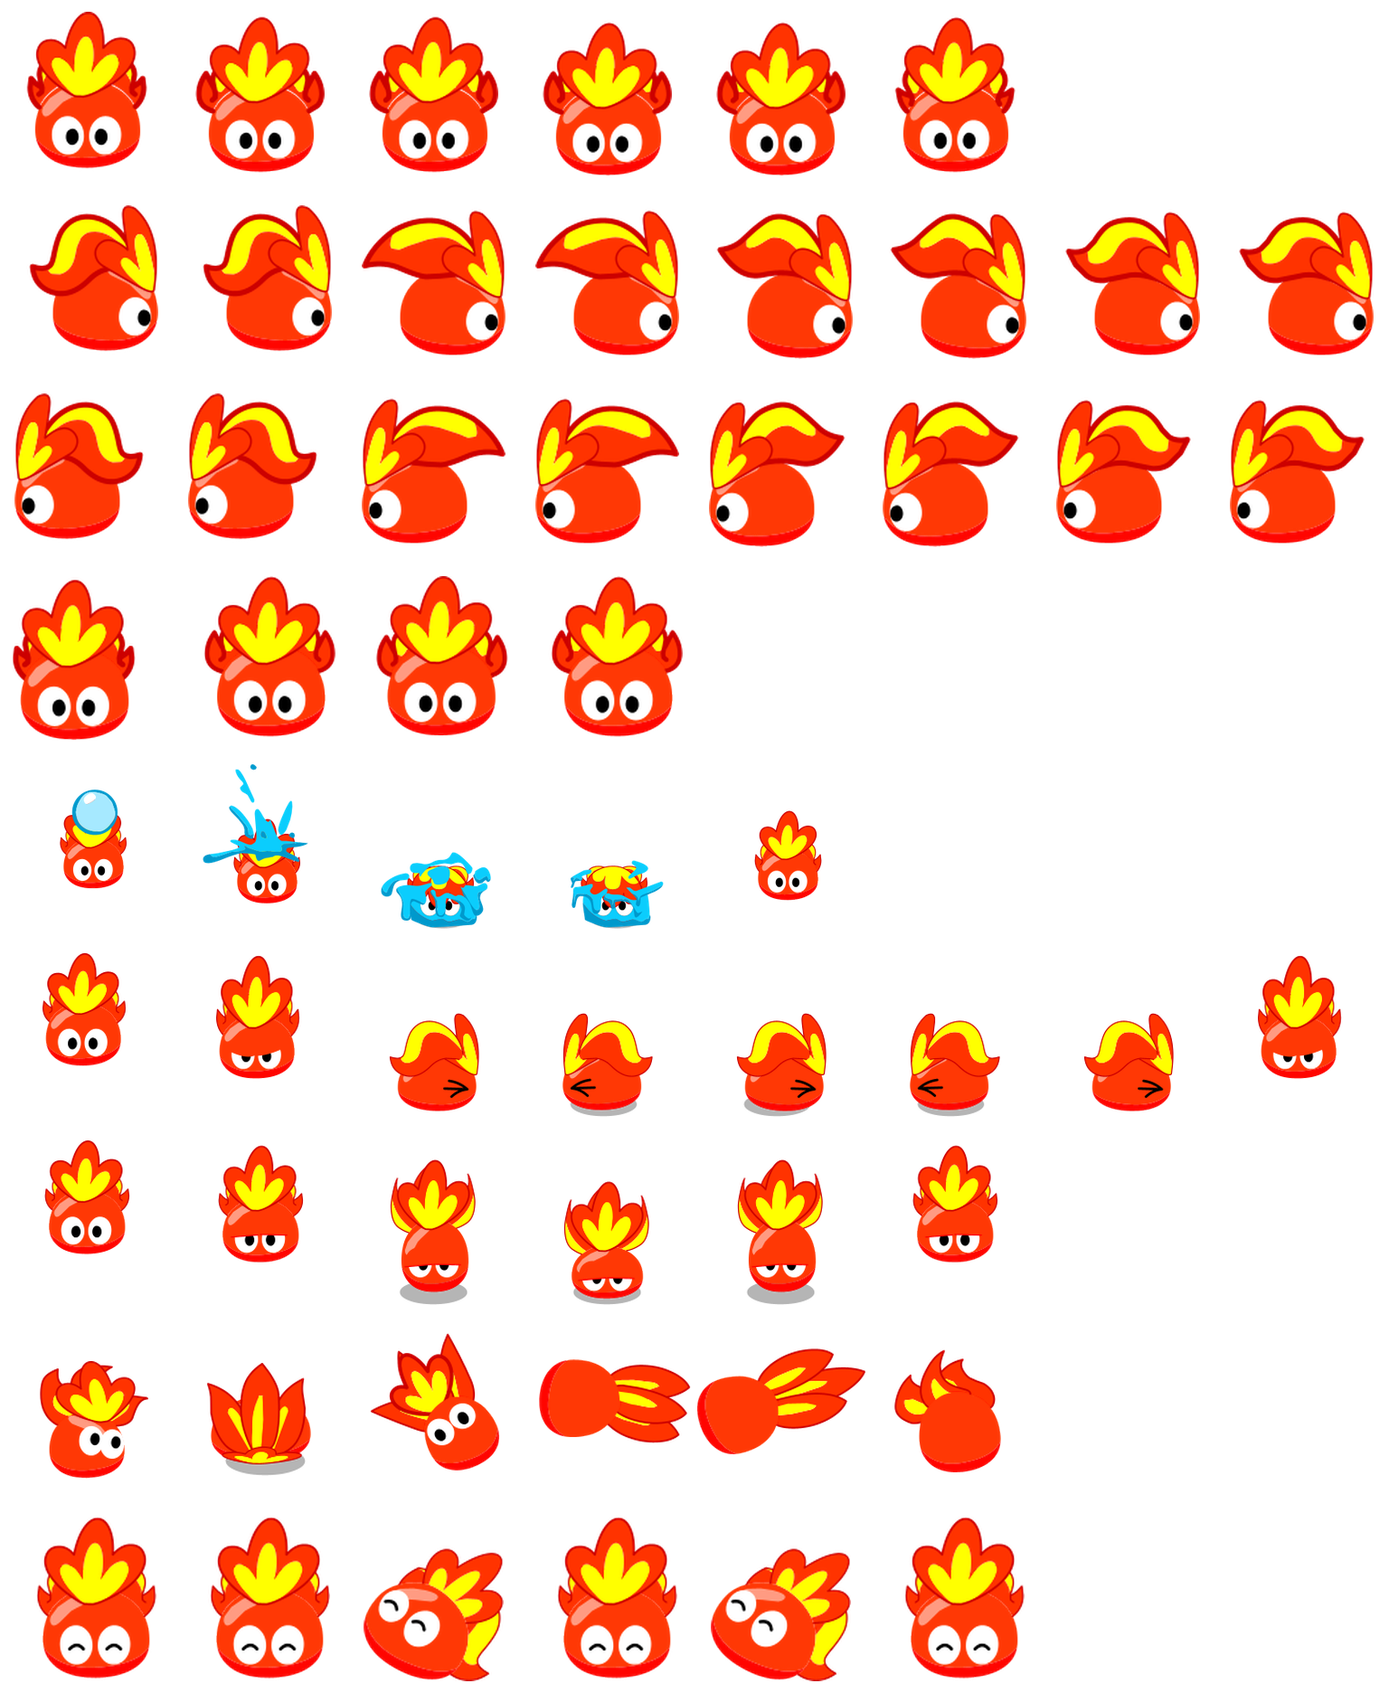
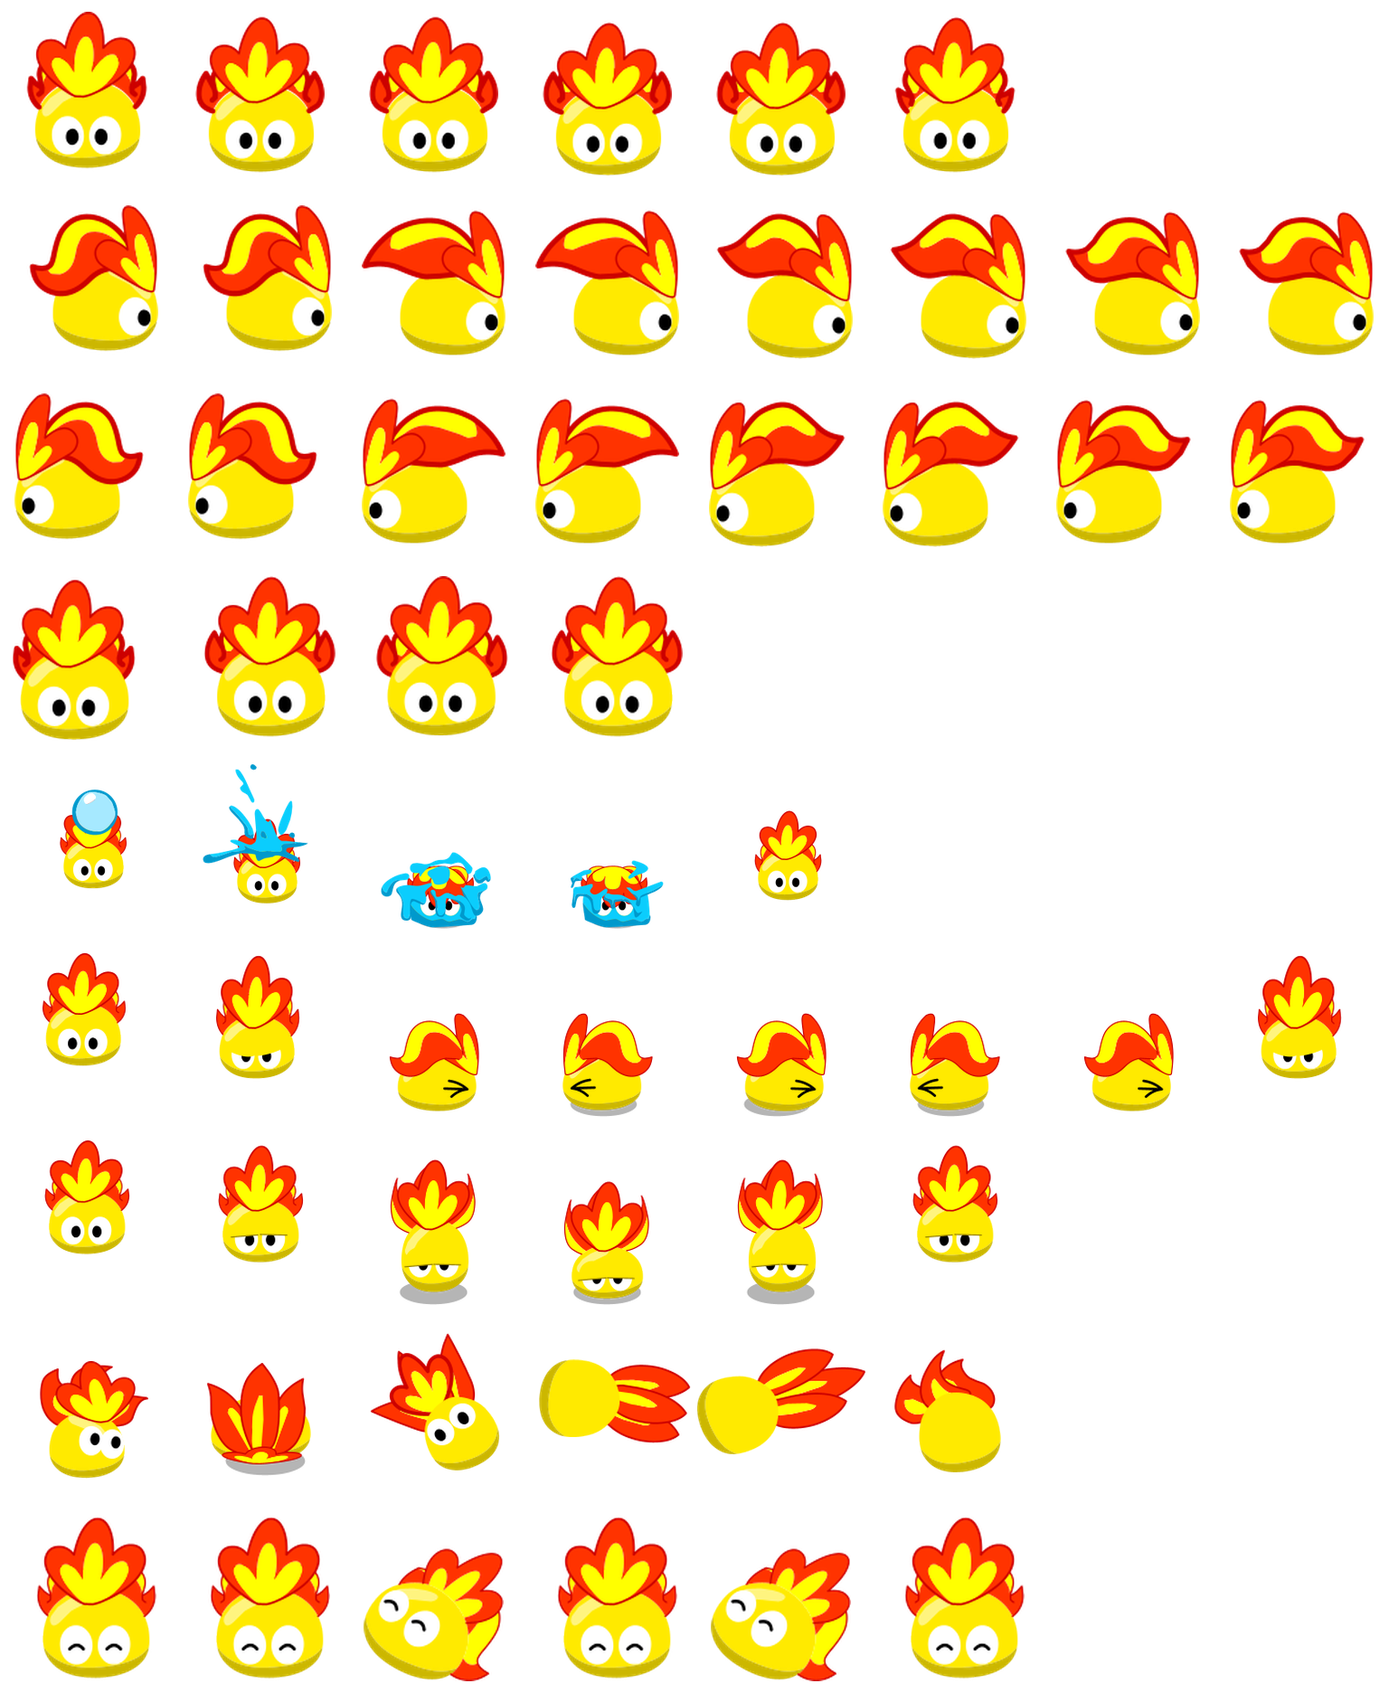
Make yellow color 1 across Ram previews downloads and installer

diff --git a/index.html b/index.html
@@ -15,14 +15,14 @@
         <div class="configuration-options variant-options" role="group" aria-label="拉姆形态"><button class="configuration-option variant-option" data-variant="junior" aria-pressed="false" disabled>初级</button><button class="configuration-option variant-option" data-variant="middle" aria-pressed="false" disabled>中级</button><button class="configuration-option variant-option" data-variant="senior" aria-pressed="false" disabled>高级</button><button class="configuration-option variant-option" data-variant="base" aria-pressed="false">基础</button><button class="configuration-option variant-option" data-variant="water" aria-pressed="false" disabled>水系</button><button class="configuration-option variant-option" data-variant="wood" aria-pressed="false" disabled>木系</button><button class="configuration-option variant-option" data-variant="fire" aria-pressed="false" disabled>火系</button><button class="configuration-option variant-option selected" data-variant="super" aria-pressed="true">神力</button></div></div>
         <div class="divider"></div>
         <div class="section-heading"><h2>颜色</h2></div>
-        <div class="colors" role="group" aria-label="游戏身体配色"><button class="swatch selected" data-color="2" style="--swatch:#ffea00" aria-label="黄色" title="黄色" aria-pressed="true"></button><button class="swatch" data-color="1" style="--swatch:#ff3805" aria-label="红色" title="红色" aria-pressed="false"></button><button class="swatch" data-color="3" style="--swatch:#28c6ff" aria-label="天蓝色" title="天蓝色" aria-pressed="false"></button><button class="swatch" data-color="4" style="--swatch:#ff6bff" aria-label="粉红色" title="粉红色" aria-pressed="false"></button><button class="swatch" data-color="5" style="--swatch:#ff8900" aria-label="橘黄色" title="橘黄色" aria-pressed="false"></button><button class="swatch" data-color="6" style="--swatch:#696969" aria-label="灰色" title="灰色" aria-pressed="false"></button><button class="swatch" data-color="7" style="--swatch:#282d28" aria-label="黑色" title="黑色" aria-pressed="false"></button><button class="swatch" data-color="8" style="--swatch:#ad3dff" aria-label="紫色" title="紫色" aria-pressed="false"></button><button class="swatch" data-color="9" style="--swatch:#a86b38" aria-label="土色" title="土色" aria-pressed="false"></button><button class="swatch" data-color="10" style="--swatch:#42d642" aria-label="绿色" title="绿色" aria-pressed="false"></button></div>
+        <div class="colors" role="group" aria-label="游戏身体配色"><button class="swatch selected" data-color="1" style="--swatch:#ffea00" aria-label="黄色" title="黄色" aria-pressed="true"></button><button class="swatch" data-color="2" style="--swatch:#ff3805" aria-label="红色" title="红色" aria-pressed="false"></button><button class="swatch" data-color="3" style="--swatch:#28c6ff" aria-label="天蓝色" title="天蓝色" aria-pressed="false"></button><button class="swatch" data-color="4" style="--swatch:#ff6bff" aria-label="粉红色" title="粉红色" aria-pressed="false"></button><button class="swatch" data-color="5" style="--swatch:#ff8900" aria-label="橘黄色" title="橘黄色" aria-pressed="false"></button><button class="swatch" data-color="6" style="--swatch:#696969" aria-label="灰色" title="灰色" aria-pressed="false"></button><button class="swatch" data-color="7" style="--swatch:#282d28" aria-label="黑色" title="黑色" aria-pressed="false"></button><button class="swatch" data-color="8" style="--swatch:#ad3dff" aria-label="紫色" title="紫色" aria-pressed="false"></button><button class="swatch" data-color="9" style="--swatch:#a86b38" aria-label="土色" title="土色" aria-pressed="false"></button><button class="swatch" data-color="10" style="--swatch:#42d642" aria-label="绿色" title="绿色" aria-pressed="false"></button></div>
         <div class="divider"></div>
         <div class="section-heading"><h2>动作</h2><a class="action-library-link" href="ram-library.html">查看原动作 ↗</a></div>
         <div class="states" role="group" aria-label="预览动作"><button data-state="idle" class="selected" aria-pressed="true">正面</button><button data-state="review" aria-pressed="false">高兴</button><button data-state="jumping" aria-pressed="false">跳舞</button><button data-state="running" aria-pressed="false">踢球</button><button data-state="waiting" aria-pressed="false">无聊</button><button data-state="running-left" aria-pressed="false">向左</button><button data-state="running-right" aria-pressed="false">向右</button><button data-state="failed" aria-pressed="false">生气</button></div>
-        <p class="hint" style="margin-top:12px">动作播放三遍后回到待机，点击动作可重播。</p><div class="download-area"><div class="install-actions"><button class="command-action" id="ram-copy-command" aria-label="复制安装命令"><span class="command-header"><span class="terminal-title">命令安装 </span><span class="copy-feedback"><span class="copy-status" role="status" aria-live="polite">复制</span><svg class="copy-icon" viewBox="0 0 20 20" width="16" height="16" fill="none" stroke="currentColor" stroke-width="1.4" aria-hidden="true"><rect x="7" y="7" width="10" height="11" rx="2"/><path d="M12 4V3a1 1 0 0 0-1-1H4a2 2 0 0 0-2 2v8a1 1 0 0 0 1 1h1"/></svg></span></span><span class="command-line"><span class="shell-prompt" aria-hidden="true">$</span><code id="ram-install-command">npx --yes github:mli55/taomi-codex-pets --form super --color 2</code></span></button><button class="download" id="ram-download" disabled><span>↓</span> 下载 ZIP </button></div><div class="download-meta"><span></span><button class="text-button" id="ram-download-png" disabled>下载 PNG</button></div><p id="ram-download-status" class="download-status" role="status"></p></div>
+        <p class="hint" style="margin-top:12px">动作播放三遍后回到待机，点击动作可重播。</p><div class="download-area"><div class="install-actions"><button class="command-action" id="ram-copy-command" aria-label="复制安装命令"><span class="command-header"><span class="terminal-title">命令安装 </span><span class="copy-feedback"><span class="copy-status" role="status" aria-live="polite">复制</span><svg class="copy-icon" viewBox="0 0 20 20" width="16" height="16" fill="none" stroke="currentColor" stroke-width="1.4" aria-hidden="true"><rect x="7" y="7" width="10" height="11" rx="2"/><path d="M12 4V3a1 1 0 0 0-1-1H4a2 2 0 0 0-2 2v8a1 1 0 0 0 1 1h1"/></svg></span></span><span class="command-line"><span class="shell-prompt" aria-hidden="true">$</span><code id="ram-install-command">npx --yes github:mli55/taomi-codex-pets --form super --color 1</code></span></button><button class="download" id="ram-download" disabled><span>↓</span> 下载 ZIP </button></div><div class="download-meta"><span></span><button class="text-button" id="ram-download-png" disabled>下载 PNG</button></div><p id="ram-download-status" class="download-status" role="status"></p></div>
       </div>
     </section>
     <section class="install" id="ram-install"><details><summary>安装说明</summary><div class="install-content"><ol><li><span>1</span><div><h3>解压宠物包</h3><p>得到一个含有 <code>pet.json</code> 和 <code>spritesheet.png</code> 的拉姆文件夹。</p></div></li><li><span>2</span><div><h3>放进 Codex 的 pets 文件夹</h3><p>macOS / Linux：<code>~/.codex/pets/</code><br>Windows：<code>%USERPROFILE%\.codex\pets\</code><br>若设置过 <code>CODEX_HOME</code>，请使用它下面的 <code>pets</code> 文件夹。</p></div></li><li><span>3</span><div><h3>在设置里选中它</h3><p>打开 Codex 的「设置 → Pets / 宠物」，刷新列表后选择拉姆。输入 <code>/pet</code> 唤出它。</p></div></li></ol><button class="copy-button" id="ram-copy-prompt">复制安装提示词</button><p class="install-note">也可以将下载的精灵图上传到支持「Upload pet」的宠物界面。<a href="https://learn.chatgpt.com/docs/pets" target="_blank" rel="noreferrer">官方说明 ↗</a></p></div></details></section>
 </div><div id="nono-panel" role="tabpanel" aria-labelledby="tab-nono" hidden><section class="workbench" aria-label="超能NoNo宠物预览"><div class="preview-panel" id="nono-preview-panel"><div class="preview-top"><span class="caps">安装效果预览</span><button id="nono-background" class="small-button" aria-label="切换深浅预览背景">◐ <span>深色背景</span></button></div><div class="pet-stage"><span class="pet-label" id="nono-pet-label">超能 NoNo</span><canvas id="nono-pet" width="576" height="624" role="img" aria-label="超能NoNo动画预览"></canvas></div><div class="preview-bottom"><span><i class="live-dot"></i><span id="nono-state-label">待机中</span></span><button id="nono-pause" class="small-button" aria-pressed="false">Ⅱ 暂停动画</button></div></div>
 <div class="controls nono-controls"><div class="section-heading"><h2>形态</h2></div><div class="forms nono-forms" role="group" aria-label="NoNo版本"><button class="form" data-form="nono-normal" aria-pressed="false"><strong>普通 NoNo</strong></button><button class="form active" data-form="nono" aria-pressed="true"><strong>超能 NoNo</strong></button><button class="form" data-form="nono-annual" aria-pressed="false"><strong>至尊 NoNo</strong></button></div><div class="divider"></div><div id="nono-colors-section"><div class="section-heading"><h2>颜色</h2></div><div class="colors" id="nono-colors" role="group" aria-label="NoNo颜色"></div><div class="divider"></div></div><div class="section-heading"><h2>动作</h2><a class="action-library-link" href="ram-library.html">查看原动作 ↗</a></div><div class="states" role="group" aria-label="预览动作"><button data-state="idle" class="selected" aria-pressed="true">待命</button><button data-state="waving" aria-pressed="false">开机</button><button data-state="jumping" aria-pressed="false">惊讶</button><button data-state="running" aria-pressed="false">玩魔方</button><button data-state="waiting" aria-pressed="false">充电</button><button data-state="review" aria-pressed="false">开心</button><button data-state="running-left" aria-pressed="false">向左</button><button data-state="running-right" aria-pressed="false">向右</button><button data-state="failed" aria-pressed="false">悲哀</button></div><p class="hint" style="margin-top:12px">动作播放三遍后回到待机，点击动作可重播。</p><div class="download-area"><div class="install-actions"><button class="command-action" id="nono-copy-command" aria-label="复制安装命令"><span class="command-header"><span class="terminal-title">命令安装 </span><span class="copy-feedback"><span class="copy-status" role="status" aria-live="polite">复制</span><svg class="copy-icon" viewBox="0 0 20 20" width="16" height="16" fill="none" stroke="currentColor" stroke-width="1.4" aria-hidden="true"><rect x="7" y="7" width="10" height="11" rx="2"/><path d="M12 4V3a1 1 0 0 0-1-1H4a2 2 0 0 0-2 2v8a1 1 0 0 0 1 1h1"/></svg></span></span><span class="command-line"><span class="shell-prompt" aria-hidden="true">$</span><code id="nono-install-command">npx --yes github:mli55/taomi-codex-pets --pet nono</code></span></button><button class="download" id="nono-download" disabled><span>↓</span> <span>下载 ZIP</span> </button></div><div class="download-meta"><span></span><button class="text-button" id="nono-download-png" disabled>下载 PNG</button></div><p id="nono-download-status" class="download-status" role="status"></p></div></div></section>    <section class="install" id="nono-install"><details><summary>安装说明</summary><div class="install-content"><ol><li><span>1</span><div><h3>解压宠物包</h3><p>得到一个含有 <code>pet.json</code> 和 <code>spritesheet.png</code> 的NoNo文件夹。</p></div></li><li><span>2</span><div><h3>放进 Codex 的 pets 文件夹</h3><p>macOS / Linux：<code>~/.codex/pets/</code><br>Windows：<code>%USERPROFILE%\.codex\pets\</code><br>若设置过 <code>CODEX_HOME</code>，请使用它下面的 <code>pets</code> 文件夹。</p></div></li><li><span>3</span><div><h3>在设置里选中它</h3><p>打开 Codex 的「设置 → Pets / 宠物」，刷新列表后选择NoNo。输入 <code>/pet</code> 唤出它。</p></div></li></ol><button class="copy-button" id="nono-copy-prompt">复制安装提示词</button><p class="install-note">也可以将下载的精灵图上传到支持「Upload pet」的宠物界面。<a href="https://learn.chatgpt.com/docs/pets" target="_blank" rel="noreferrer">官方说明 ↗</a></p></div></details></section>
-</div></main><footer><p>非官方项目 · 游戏素材版权归原权利方所有</p></footer><script src="pet-playback.js?v=animation-review2" defer></script><script src="ram.js?v=woter-restored1" defer></script><script src="nono.js?v=loop-continuity1" defer></script><script src="app.js" defer></script></body></html>
+</div></main><footer><p>非官方项目 · 游戏素材版权归原权利方所有</p></footer><script src="pet-playback.js?v=animation-review2" defer></script><script src="ram.js?v=yellow-first1" defer></script><script src="nono.js?v=loop-continuity1" defer></script><script src="app.js" defer></script></body></html>

diff --git a/ram.js b/ram.js
@@ -34,7 +34,7 @@ function chooseVariant(next){
   variant=next;selectedVariants[type]=next;
   syncConfiguration();loadForm(COMBINATIONS[type][variant]);
 }
-const PALETTE = {"1": {"name": "红色", "slug": "red", "offset": [255, -199, -250], "swatch": "#ff3805"}, "2": {"name": "黄色", "slug": "yellow", "offset": [0, -21, -255], "swatch": "#ffea00"}, "3": {"name": "天蓝色", "slug": "blue", "offset": [-215, -57, 31], "swatch": "#28c6ff"}, "4": {"name": "粉红色", "slug": "pink", "offset": [51, -148, 0], "swatch": "#ff6bff"}, "5": {"name": "橘黄色", "slug": "orange", "offset": [102, -118, -255], "swatch": "#ff8900"}, "6": {"name": "灰色", "slug": "gray", "offset": [-150, -150, -150], "swatch": "#696969"}, "7": {"name": "黑色", "slug": "black", "offset": [-215, -210, -215], "swatch": "#282d28"}, "8": {"name": "紫色", "slug": "purple", "offset": [-82, -194, 112], "swatch": "#ad3dff"}, "9": {"name": "土色", "slug": "brown", "offset": [-87, -148, -199], "swatch": "#a86b38"}, "10": {"name": "绿色", "slug": "green", "offset": [-189, -41, -189], "swatch": "#42d642"}};
+const PALETTE = {"1": {"name": "黄色", "slug": "yellow", "offset": [0, -21, -255], "swatch": "#ffea00", "gameColorId": 2}, "2": {"name": "红色", "slug": "red", "offset": [255, -199, -250], "swatch": "#ff3805", "gameColorId": 1}, "3": {"name": "天蓝色", "slug": "blue", "offset": [-215, -57, 31], "swatch": "#28c6ff", "gameColorId": 3}, "4": {"name": "粉红色", "slug": "pink", "offset": [51, -148, 0], "swatch": "#ff6bff", "gameColorId": 4}, "5": {"name": "橘黄色", "slug": "orange", "offset": [102, -118, -255], "swatch": "#ff8900", "gameColorId": 5}, "6": {"name": "灰色", "slug": "gray", "offset": [-150, -150, -150], "swatch": "#696969", "gameColorId": 6}, "7": {"name": "黑色", "slug": "black", "offset": [-215, -210, -215], "swatch": "#282d28", "gameColorId": 7}, "8": {"name": "紫色", "slug": "purple", "offset": [-82, -194, 112], "swatch": "#ad3dff", "gameColorId": 8}, "9": {"name": "土色", "slug": "brown", "offset": [-87, -148, -199], "swatch": "#a86b38", "gameColorId": 9}, "10": {"name": "绿色", "slug": "green", "offset": [-189, -41, -189], "swatch": "#42d642", "gameColorId": 10}};
 const root=document.getElementById('ram-panel');
 const PREVIEW_ACTIONS=PetPlayback.actions;
 const actionGroup=root.querySelector('.states');
@@ -43,7 +43,7 @@ const $ = id => document.getElementById('ram-'+id);
 const canvas = $('pet'), ctx = canvas.getContext('2d');
 const sheet = document.createElement('canvas'); sheet.width=1536; sheet.height=1872;
 const sheetCtx=sheet.getContext('2d',{willReadFrequently:true});
-let form='super', color='2', state='idle', original=null, currentFrame=0, playbackRow=0, loadedForm=null, generation=0;
+let form='super', color='1', state='idle', original=null, currentFrame=0, playbackRow=0, loadedForm=null, generation=0;
 let hovering=false;
 let paused=matchMedia('(prefers-reduced-motion: reduce)').matches;
 const imageCache=new Map(); let bodyMask=null;
@@ -96,7 +96,7 @@ async function loadForm(next){
   try{
     let images=imageCache.get(next);
     if(!images){
-      images=await Promise.all([next+'-neutral.png',next+'-mask.png'].map(async file=>{const image=new Image();image.src='assets/'+file+'?v=woter-restored1';await image.decode();if(image.naturalWidth!==1536||image.naturalHeight!==1872)throw Error('宠物图集尺寸不正确');return image;}));
+      images=await Promise.all([next+'-neutral.png',next+'-mask.png'].map(async file=>{const image=new Image();image.src='assets/'+file+'?v=yellow-first1';await image.decode();if(image.naturalWidth!==1536||image.naturalHeight!==1872)throw Error('宠物图集尺寸不正确');return image;}));
       imageCache.set(next,images);
     }
     if(request!==generation)return;
@@ -136,7 +136,7 @@ async function exportPet(onlyPng=false){
   try{const png=await pngBlob();
     if(onlyPng)downloadBlob(png,id+'-spritesheet.png');
     else{const metadata={id,displayName,spriteVersionNumber:1,spritesheetPath:'spritesheet.png'};
-      const readme=`${displayName}\n\n安装：把本文件夹放进 CODEX_HOME/pets（默认 ~/.codex/pets；Windows 为 %USERPROFILE%\\.codex\\pets）。\n打开 Codex 设置 → Pets / 宠物，刷新并选择它。输入 /pet 唤出宠物。\n\n本包只含数据，不执行任何脚本。\n图集：1536×1872，8列9行，每格192×208。\n行：idle, running-right, running-left, waving, jumping, failed, waiting, running, review。\n帧数：6,8,8,4,5,8,6,6,6。\n状态：待机、向右、向左、打招呼、跳跃（悬停）、失败、等待、工作、检查。\n游戏配色：${PALETTE[color].name}（ID ${color}）\n\n来源与说明：https://github.com/mli55/taomi-codex-pets\n官方宠物文档：https://learn.chatgpt.com/docs/pets\n摩尔庄园同人作品，非官方出品；角色权益归原权利方所有。\n`;
+      const readme=`${displayName}\n\n安装：把本文件夹放进 CODEX_HOME/pets（默认 ~/.codex/pets；Windows 为 %USERPROFILE%\\.codex\\pets）。\n打开 Codex 设置 → Pets / 宠物，刷新并选择它。输入 /pet 唤出宠物。\n\n本包只含数据，不执行任何脚本。\n图集：1536×1872，8列9行，每格192×208。\n行：idle, running-right, running-left, waving, jumping, failed, waiting, running, review。\n帧数：6,8,8,4,5,8,6,6,6。\n状态：待机、向右、向左、打招呼、跳跃（悬停）、失败、等待、工作、检查。\n配色：${PALETTE[color].name}（编号 ${color}）\n\n来源与说明：https://github.com/mli55/taomi-codex-pets\n官方宠物文档：https://learn.chatgpt.com/docs/pets\n摩尔庄园同人作品，非官方出品；角色权益归原权利方所有。\n`;
       downloadBlob(makeZip([{name:id+'/pet.json',data:JSON.stringify(metadata,null,2)},{name:id+'/spritesheet.png',data:new Uint8Array(await png.arrayBuffer())},{name:id+'/README.txt',data:readme}]),id+'.zip');}
     $('download-status').textContent='已开始下载。';
   }catch(error){$('download-status').textContent=error.message||'下载失败，请重试。';}
